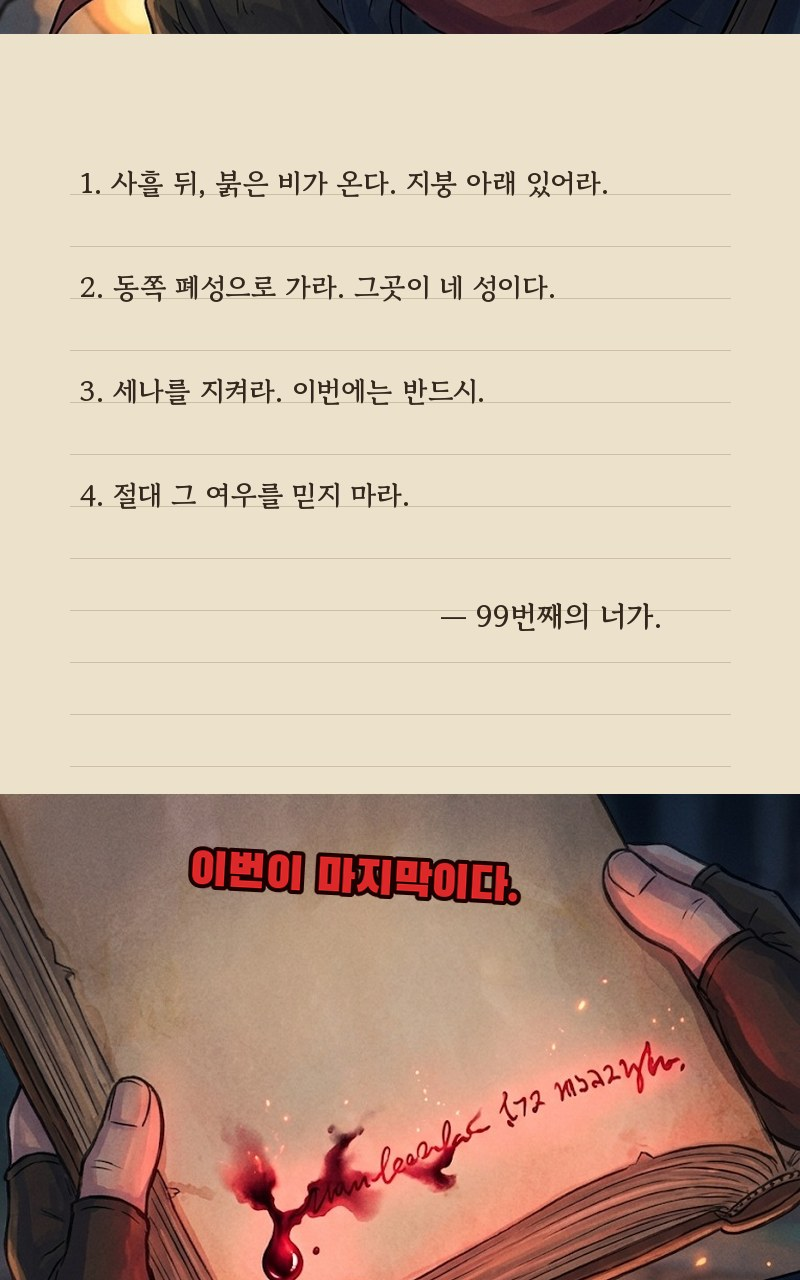
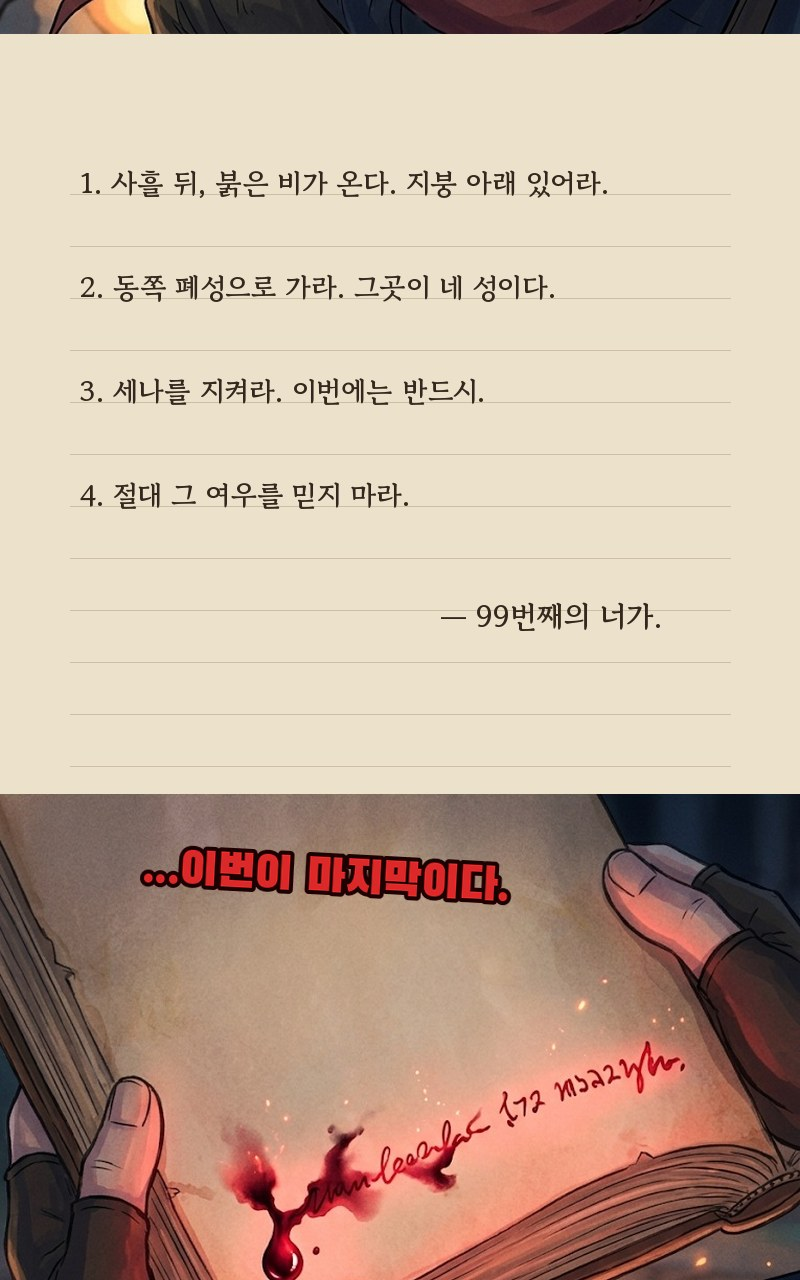
달빛툰 1화: 말줄임표 글꼴 오류, 말풍선 위치, 끝 크레딧 제거
Claude-Session: https://claude.ai/code/session_01D8ERGz5r4FPkuXoKDYhqRw

Changed region(s): [[0.1875, 0.6562, 0.6562, 0.7188]]

diff --git a/_stage/dalbit2/index.html b/_stage/dalbit2/index.html
@@ -108,7 +108,7 @@ function card(x){const n=live(x).length;return `<a class="card" href="#s-${x.id}
 function home(tab){const on=S.filter(x=>live(x).length),soon=S.filter(x=>!live(x).length);
  const sec=(tag,small,h,arr)=>arr.length?`<section class="box"><div class="bh"><span class="tag">${tag}</span><div><small>${small}</small><h2>${h}</h2></div></div><div class="shelf">${arr.map(card).join("")}</div></section>`:"";
  const f=on[0];const feat=(tab==="home"&&f)?`<section class="feat"><div class="bgi" style="background-image:url(${f.art.img})"></div><div class="tx"><i>오늘의 달빛툰</i><h2>${esc(f.t)}</h2><p>${esc(f.intro)}</p><div class="go"><a class="btn pr" href="#v-${f.id}-${live(f)[0].no}">1화 보기</a><a class="btn" href="#s-${f.id}">목록</a></div></div><div class="art"><img src="${f.art.img}" alt="${esc(f.t)}"></div></section>`:"";
- return header(tab)+`<main class="wrap">${feat}${tab!=="soon"?sec("NEW","내가 보고 싶어서 만드는 웹툰","최신 만화",on):""}${tab!=="ongoing"?sec("SOON","마녀를 지켜라 · 장송의 프리렌 감성","연재 예정",soon):""}<p class="note">달빛툰 · 글 Claude · 그림 제미나이 · 새 화는 만들어지는 대로 올라와요</p></main>`}
+ return header(tab)+`<main class="wrap">${feat}${tab!=="soon"?sec("NEW","내가 보고 싶어서 만드는 웹툰","최신 만화",on):""}${tab!=="ongoing"?sec("SOON","마녀를 지켜라 · 장송의 프리렌 감성","연재 예정",soon):""}<p class="note">달빛툰 · 새 화는 만들어지는 대로 올라와요</p></main>`}
 function series(id){const x=S.find(s=>s.id===id)||S[0];const L=live(x);
  return header("")+`<main class="wrap"><section class="hero"><div class="big">${cover(x,"big")}</div><div class="info"><h1>${esc(x.t)}</h1><dl><dt>장르</dt><dd>${esc(x.g)}</dd><dt>분류</dt><dd>${esc(x.kind)}${x.day?" · 매주 "+x.day:""}</dd><dt>작가</dt><dd>${esc(x.by)}</dd></dl><div class="intro">${esc(x.intro)}</div>
   <div class="btns"><a class="btn" href="#home">☆ 서재로</a>${L.length?`<a class="btn pr" href="#v-${x.id}-${L[0].no}">처음부터</a>`:`<button class="btn pr" disabled>곧 시작</button>`}</div>${L.some(e=>e.body)?`<div class="scn">📜 시나리오(글) · ${L.filter(e=>e.body).map(e=>`<a href="#t-${x.id}-${e.no}">${e.no}화</a>`).join(" · ")}</div>`:""}</div></section>

diff --git a/_stage/dalbit2/data.js b/_stage/dalbit2/data.js
@@ -8,7 +8,7 @@ window.TOON={
    "g": "회귀 · 판타지",
    "kind": "연재 중",
    "day": "수요일",
-   "by": "글 Claude · 그림 제미나이",
+   "by": "AI 민성",
    "art": {
     "bg": "radial-gradient(120% 90% at 50% 8%,#6a2222 0%,#1b1426 48%,#090c16 100%)",
     "moon": true,
@@ -63,7 +63,7 @@ window.TOON={
    "g": "영지 · 힐링 판타지",
    "kind": "연재 예정",
    "day": "",
-   "by": "글 Claude · 그림 제미나이",
+   "by": "AI 민성",
    "art": {
     "bg": "radial-gradient(120% 90% at 50% 10%,#F6D9A8 0%,#C98F5C 45%,#4A2E2A 100%)",
     "ic": "🧙♀🌿🏰",
@@ -79,7 +79,7 @@ window.TOON={
    "g": "힐링 · 판타지",
    "kind": "연재 예정",
    "day": "",
-   "by": "글 Claude · 그림 제미나이",
+   "by": "AI 민성",
    "art": {
     "bg": "radial-gradient(120% 90% at 50% 15%,#DDEBF6 0%,#8FB3D1 45%,#2A3A55 100%)",
     "ic": "✉🧝🌌",
@@ -95,7 +95,7 @@ window.TOON={
    "g": "학원 · 성장 판타지",
    "kind": "연재 예정",
    "day": "",
-   "by": "글 Claude · 그림 제미나이",
+   "by": "AI 민성",
    "art": {
     "bg": "radial-gradient(120% 90% at 50% 10%,#E9DDF8 0%,#A48BD6 45%,#2C2350 100%)",
     "ic": "🪄📚✨",

diff --git a/_stage/compose_ep1.py b/_stage/compose_ep1.py
@@ -40,6 +40,7 @@ def bubble(img, text, cx, cy, size=30, tail=None, shout=False, maxw=320):
     d = ImageDraw.Draw(img)
     size = int(size * 1.12)
     f = F(LOUD if shout else TALK, size)
+    text = text.replace("…", "...")
     lines = wrap(d, text, f, maxw)
     lh = size * 1.3
     tw = max(d.textlength(l, font=f) for l in lines); th = lh * len(lines)
@@ -83,6 +84,7 @@ def narration(img, text, x, y, size=26, maxw=560, dark=True):
 
 
 def sfx(img, text, x, y, size=90, color=(255, 255, 255), stroke=(20, 10, 10), rot=-8):
+    text = text.replace("…", "...")
     f = F(LOUD, size)
     tmp = Image.new("RGBA", (int(size * len(text) * 1.2 + 40), int(size * 1.6)), (0, 0, 0, 0))
     d = ImageDraw.Draw(tmp)
@@ -142,7 +144,7 @@ blocks.append((p, 40))
 
 p = panel(6)
 bubble(p, "미끼 노릇이나 해라!", 230, 110, size=34, tail=(280, 230), shout=True)
-bubble(p, "…!", 640, 330, size=34, tail=(560, 420))
+bubble(p, "…!", 560, 600, size=30, tail=(470, 680))
 narration(p, "달아나던 바르크의 손에서, 빼앗긴 조각이 떨어졌다.", 40, p.height - 100, maxw=700)
 blocks.append((p, 0))
 
@@ -200,8 +202,7 @@ sfx(p, "…이번이 마지막이다.", 120, 40, size=46, color=(220, 40, 40), s
 blocks.append((p, 0))
 
 c = card(560)
-center_text(c, "2화 「폐성」에서 계속", 230, F(NARRB, 34), (232, 228, 220))
-center_text(c, "달빛툰 · 글 Claude · 그림 제미나이", 320, F(TALK, 18), (110, 116, 135))
+center_text(c, "2화 「폐성」에서 계속", 250, F(NARRB, 34), (232, 228, 220))
 blocks.append((c, 0))
 
 # 세로로 잇기 (컷 사이 여백 = 연출 속도)

diff --git a/toon_tools/compose_ep1.py b/toon_tools/compose_ep1.py
@@ -40,6 +40,7 @@ def bubble(img, text, cx, cy, size=30, tail=None, shout=False, maxw=320):
     d = ImageDraw.Draw(img)
     size = int(size * 1.12)
     f = F(LOUD if shout else TALK, size)
+    text = text.replace("…", "...")
     lines = wrap(d, text, f, maxw)
     lh = size * 1.3
     tw = max(d.textlength(l, font=f) for l in lines); th = lh * len(lines)
@@ -83,6 +84,7 @@ def narration(img, text, x, y, size=26, maxw=560, dark=True):
 
 
 def sfx(img, text, x, y, size=90, color=(255, 255, 255), stroke=(20, 10, 10), rot=-8):
+    text = text.replace("…", "...")
     f = F(LOUD, size)
     tmp = Image.new("RGBA", (int(size * len(text) * 1.2 + 40), int(size * 1.6)), (0, 0, 0, 0))
     d = ImageDraw.Draw(tmp)
@@ -142,7 +144,7 @@ blocks.append((p, 40))
 
 p = panel(6)
 bubble(p, "미끼 노릇이나 해라!", 230, 110, size=34, tail=(280, 230), shout=True)
-bubble(p, "…!", 640, 330, size=34, tail=(560, 420))
+bubble(p, "…!", 560, 600, size=30, tail=(470, 680))
 narration(p, "달아나던 바르크의 손에서, 빼앗긴 조각이 떨어졌다.", 40, p.height - 100, maxw=700)
 blocks.append((p, 0))
 
@@ -200,8 +202,7 @@ sfx(p, "…이번이 마지막이다.", 120, 40, size=46, color=(220, 40, 40), s
 blocks.append((p, 0))
 
 c = card(560)
-center_text(c, "2화 「폐성」에서 계속", 230, F(NARRB, 34), (232, 228, 220))
-center_text(c, "달빛툰 · 글 Claude · 그림 제미나이", 320, F(TALK, 18), (110, 116, 135))
+center_text(c, "2화 「폐성」에서 계속", 250, F(NARRB, 34), (232, 228, 220))
 blocks.append((c, 0))
 
 # 세로로 잇기 (컷 사이 여백 = 연출 속도)
